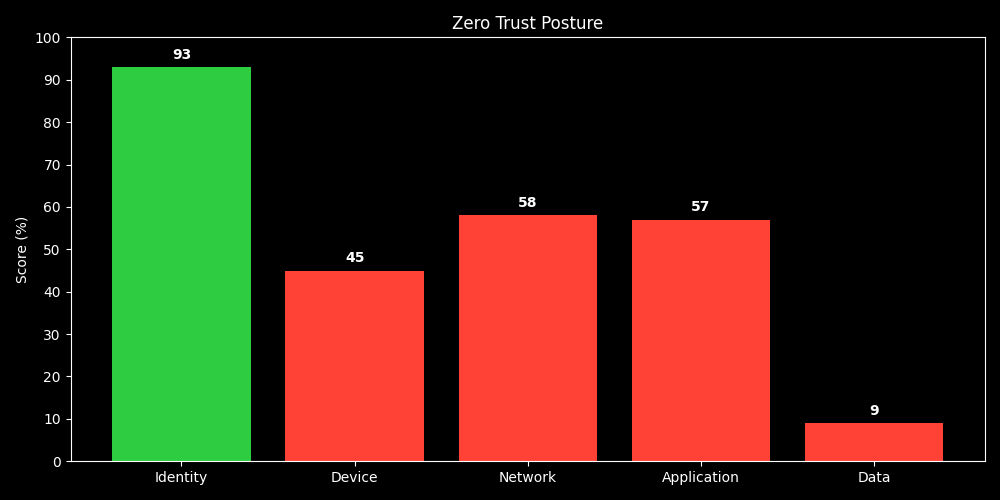
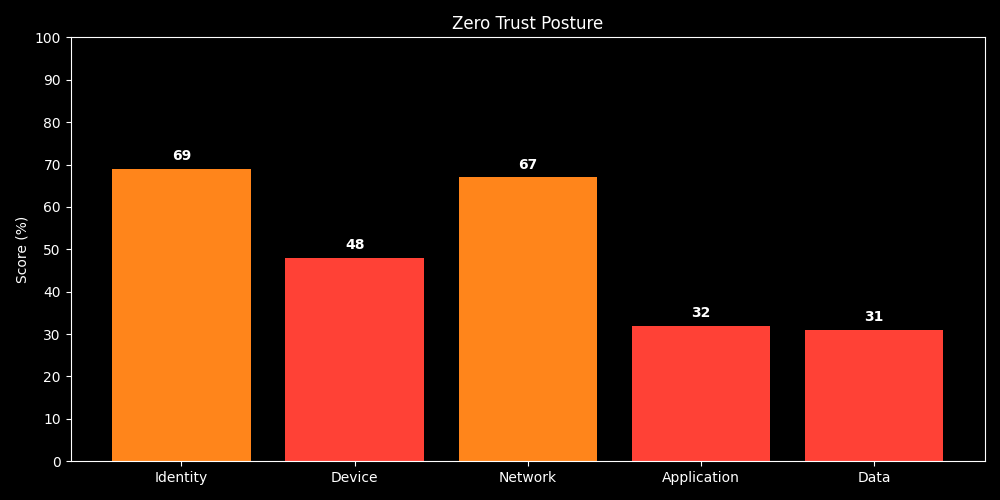
Automated dashboard update

Changed region(s): [[0.279, 0.33, 0.775, 0.93], [0.093, 0.09, 0.248, 0.93], [0.806, 0.63, 0.961, 0.87]]

diff --git a/README.md b/README.md
@@ -84,16 +84,16 @@ The **Zero Trust Dashboard** provides an automated, real-time view of an organiz
 ### 🗂 Metrics Table
 | Control | Domain | Score (%) |
 |---------|--------|-----------|
-| A.12.7 | Technical Vulnerability Management | 94 |
-| A.5.1 | InfoSec Policies | 0 |
-| A.6.1 | Org InfoSec | 66 |
-| A.8.2 | Risk Management | 75 |
-| A.9.2 | Access Control | 90 |
-| Application | Application | 57 |
-| Data | Data | 9 |
-| Device | Device | 45 |
-| Identity | Identity | 93 |
-| Network | Network | 58 |
+| A.12.7 | Technical Vulnerability Management | 22 |
+| A.5.1 | InfoSec Policies | 86 |
+| A.6.1 | Org InfoSec | 93 |
+| A.8.2 | Risk Management | 92 |
+| A.9.2 | Access Control | 64 |
+| Application | Application | 32 |
+| Data | Data | 31 |
+| Device | Device | 48 |
+| Identity | Identity | 69 |
+| Network | Network | 67 |
 
 ## 🚦 Color Codes
 